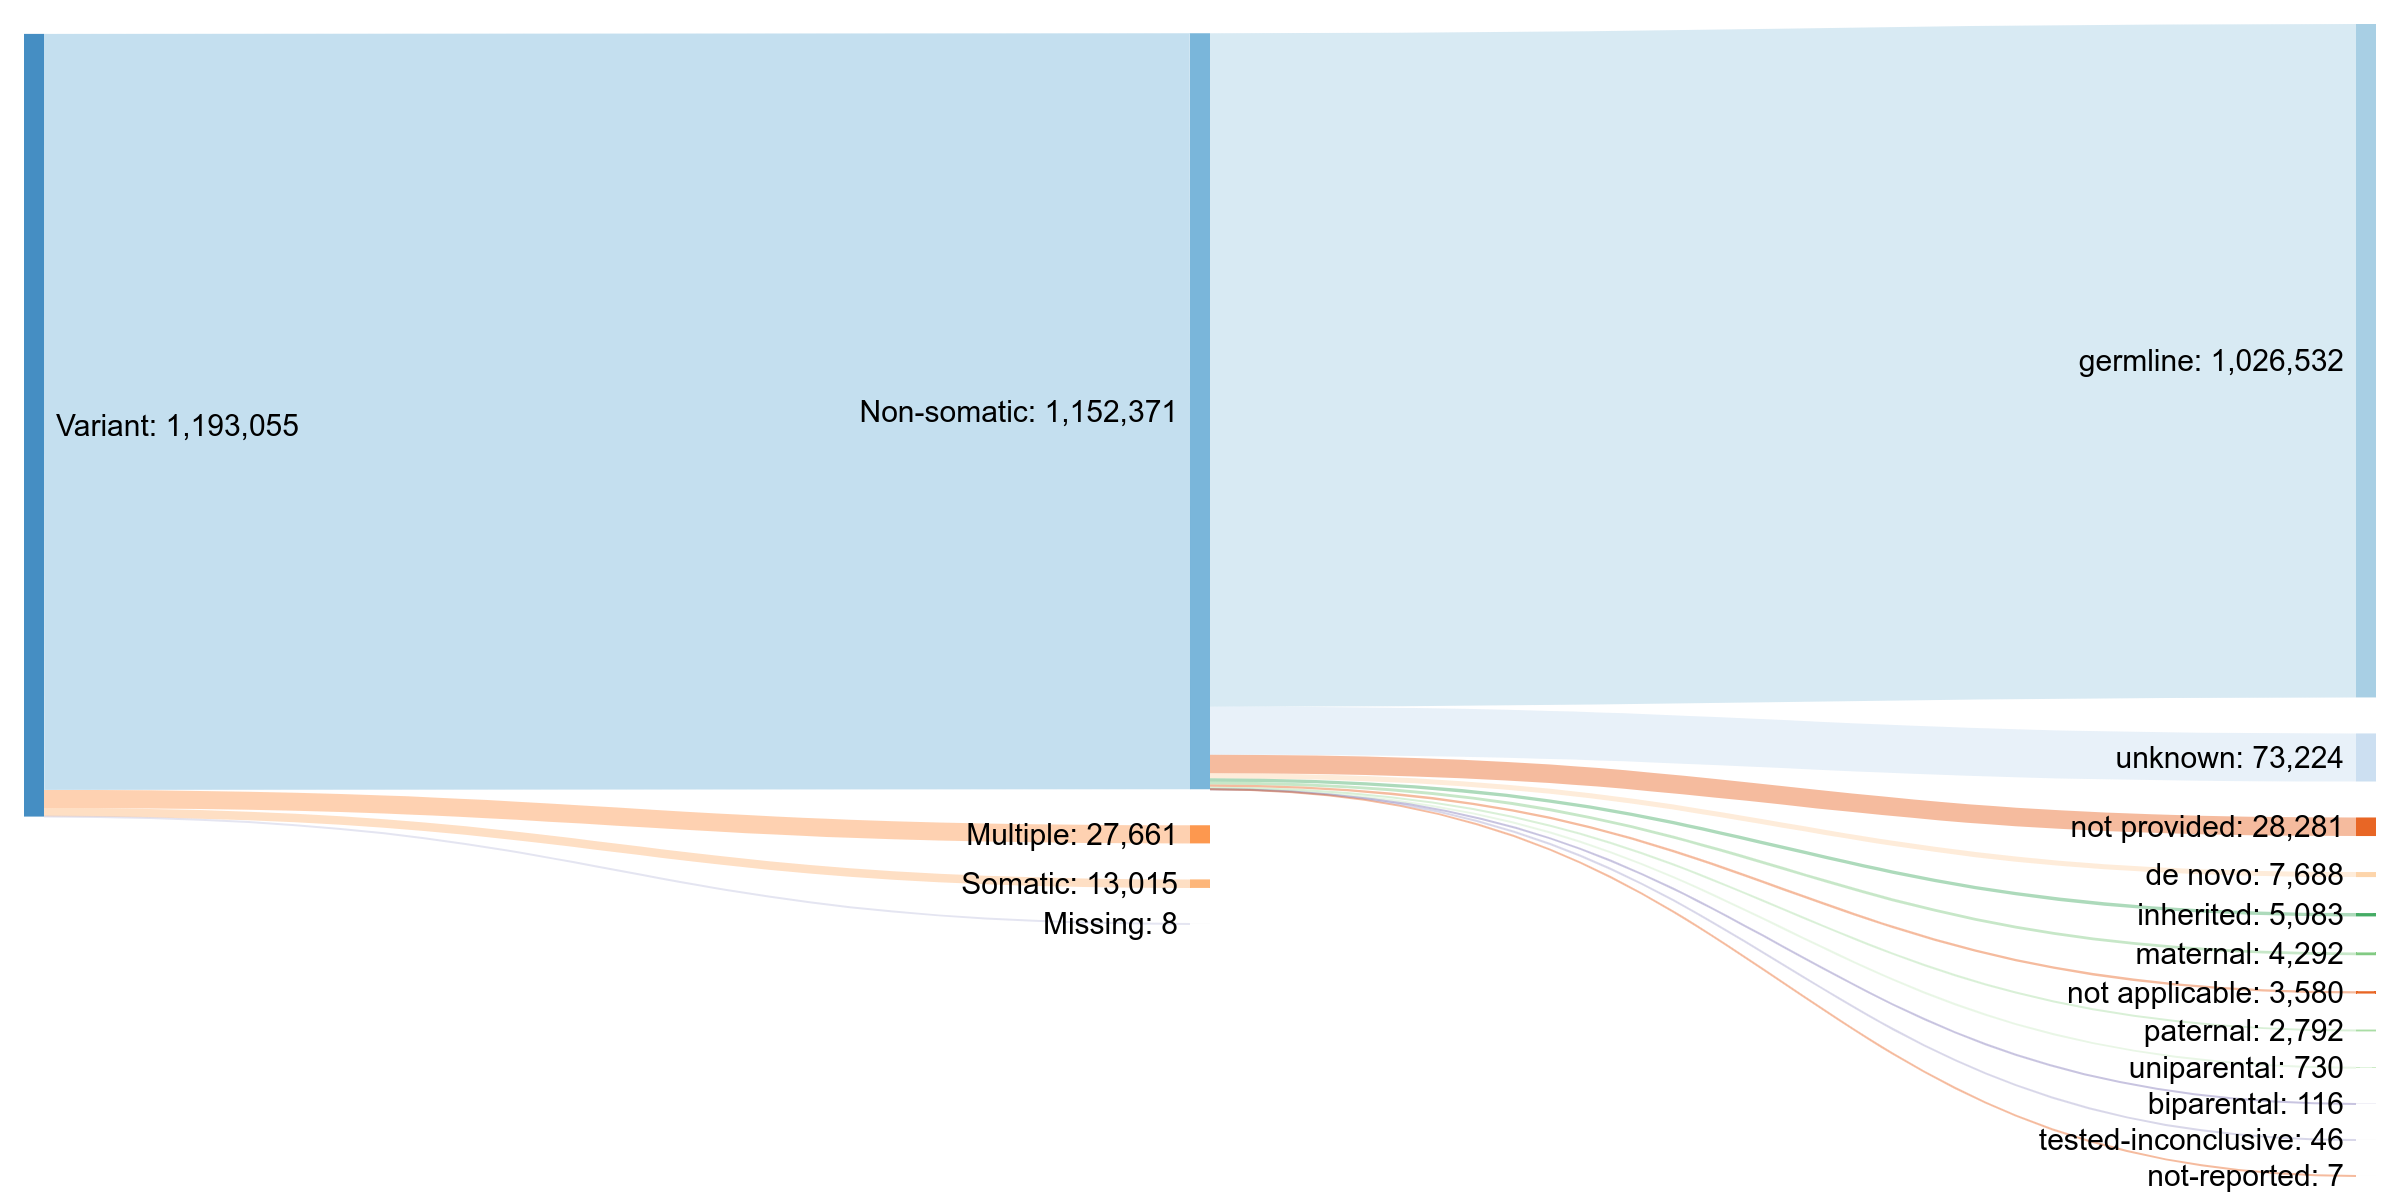
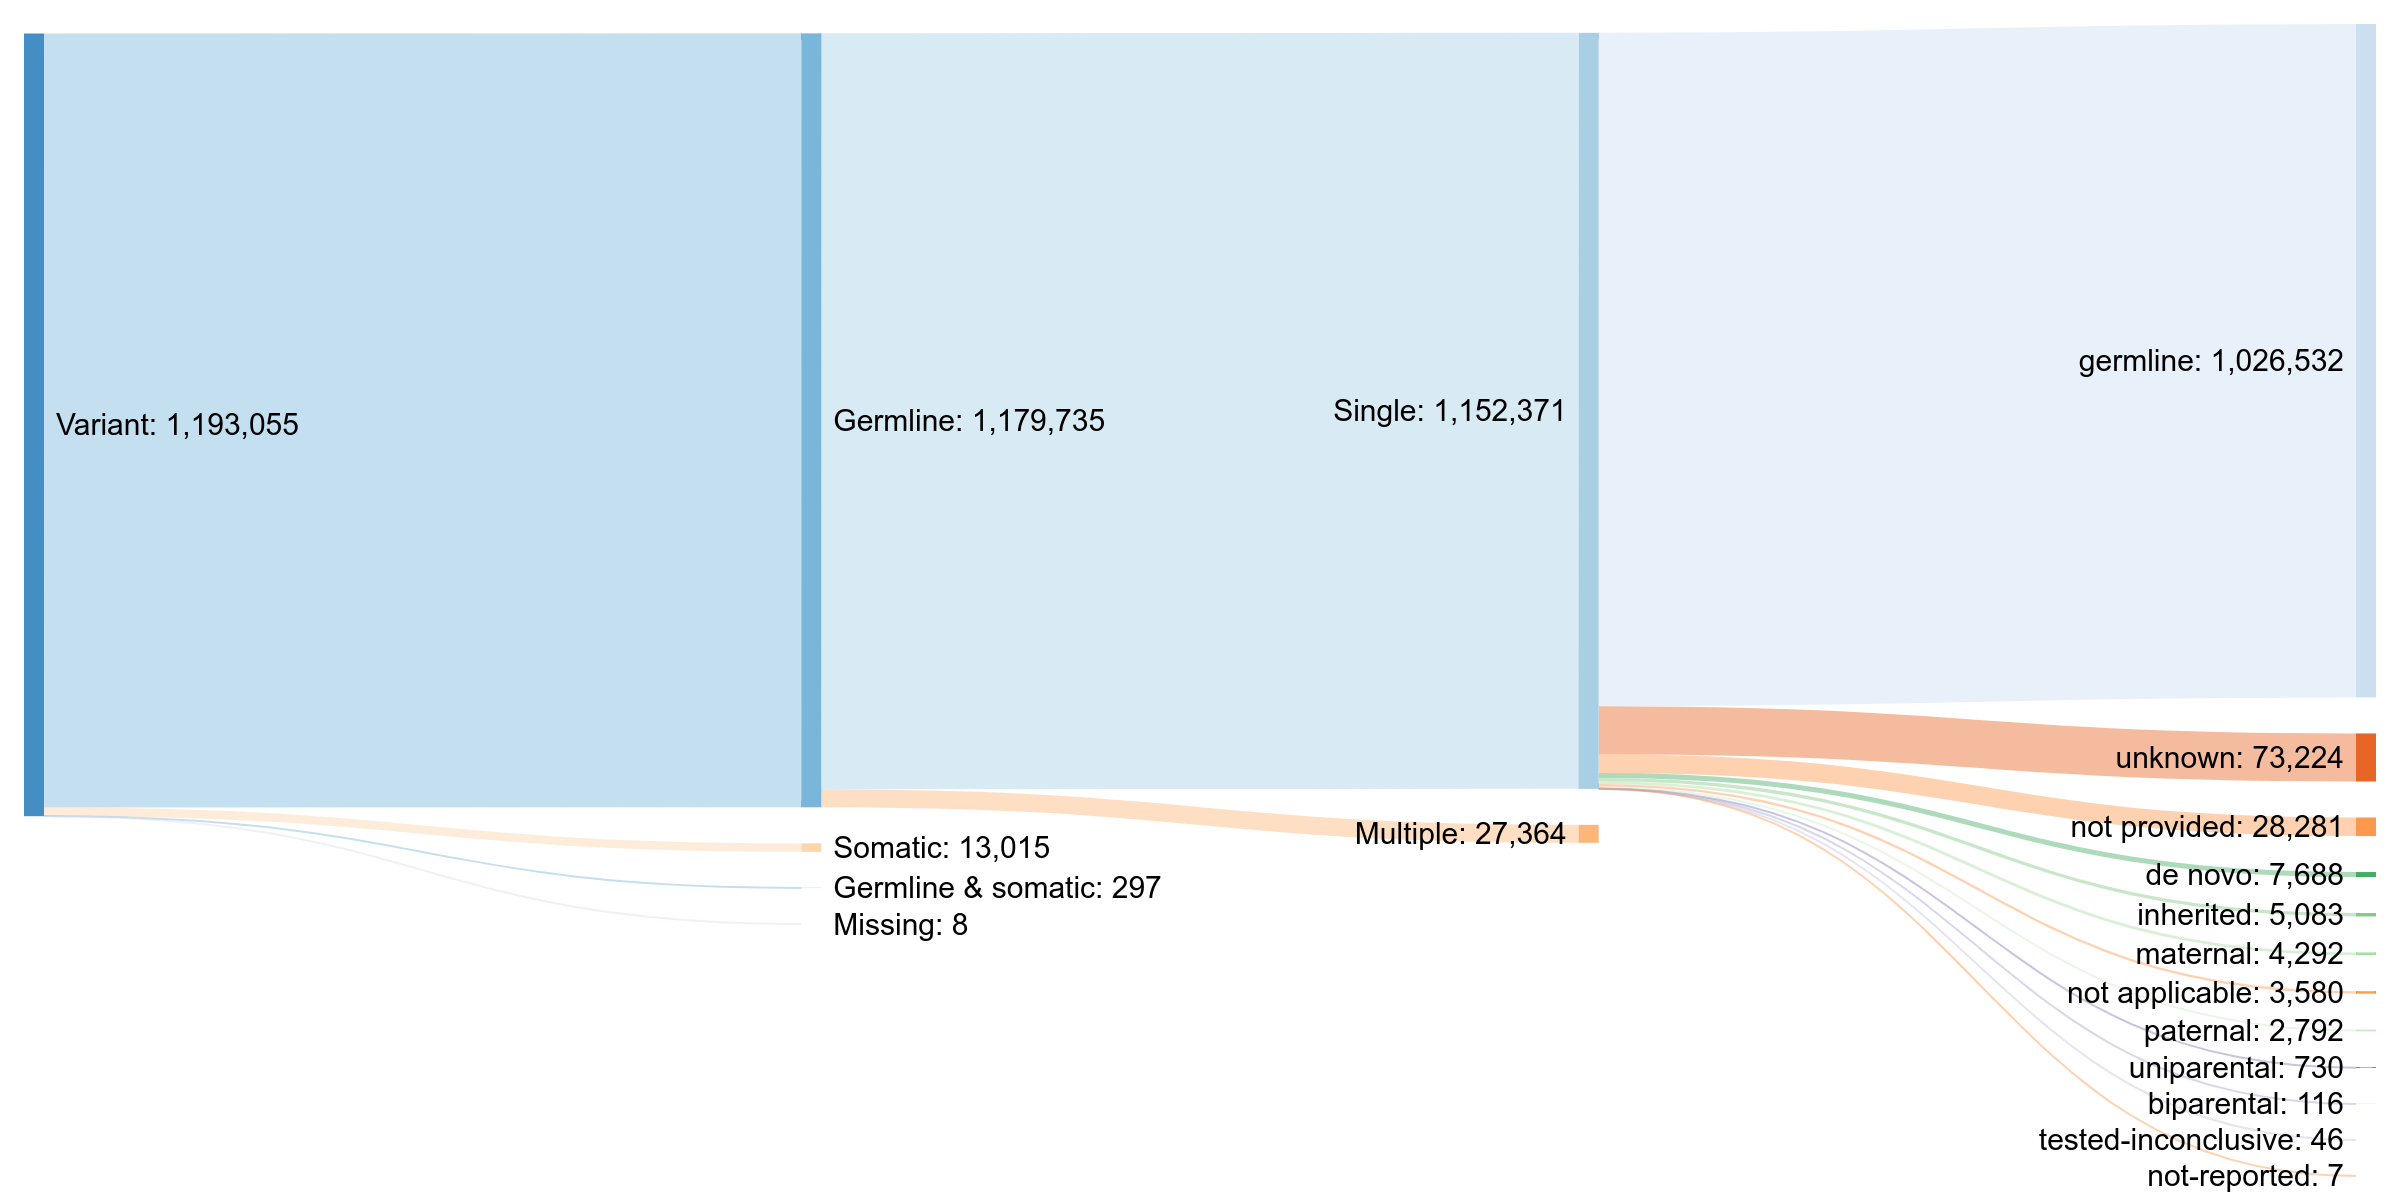
Update allele origin & mode of inheritance diagrams and report

diff --git a/clinvar-variant-types/clinvar-variant-types.py b/clinvar-variant-types/clinvar-variant-types.py
@@ -110,7 +110,7 @@ sankey_clinical_significance = SankeyDiagram('clinical-significance.png', 1200, 
 sankey_star_rating = SankeyDiagram('star-rating.png', 1200, 600)
 sankey_mode_of_inheritance = SankeyDiagram('mode-of-inheritance.png', 1200, 500)
 sankey_allele_origin = SankeyDiagram('allele-origin.png', 1200, 600)
-sankey_inheritance_origin = SankeyDiagram('inheritance-origin.png', 1200, 600)
+sankey_inheritance_origin = SankeyDiagram('inheritance-origin.png', 1200, 400)
 
 # Supplementary tables and counters for the report
 counter_clin_sig_complex = SupplementaryTableCounter('Complex clinical significance levels', 'Clinical significance')
@@ -250,7 +250,8 @@ for sankey_diagram in (sankey_variant_types, sankey_clinical_significance, sanke
 
 # Output the supplementary tables for the report.
 for supplementary_table in (counter_clin_sig_complex, counter_clin_sig_all, counter_star_rating,
-                            table_multiple_mode_of_inheritance, counter_multiple_allele_origin):
+                            table_multiple_mode_of_inheritance, counter_multiple_allele_origin,
+                            table_inconsistent_moi_ao):
     print('\n')
     print(supplementary_table)
 

diff --git a/clinvar-variant-types/README.md b/clinvar-variant-types/README.md
@@ -365,6 +365,11 @@ de novo,paternal,somatic|1
 
 ## Mapping between mode of inheritance and allele origin
 
-In theory, for single values the categories of mode of inheritance and allele origin (somatic or non-somatic) must always be the same. The following diagram illustrates the mapping from one to the other in practice. For readability, it shows only the records where *both* allele origin and mode of inheritance are present:
+In theory, for single values the categories of mode of inheritance and allele origin (germline / somatic / germline & somatic) must always be the same. The following diagram illustrates the mapping from one to the other in practice. For readability, it shows only the records where *both* allele origin and mode of inheritance are present:
 
 ![](inheritance-origin.png)
+
+### Inconsistent records
+
+The following table lists all records from the diagram above where the categories do not match:
+
